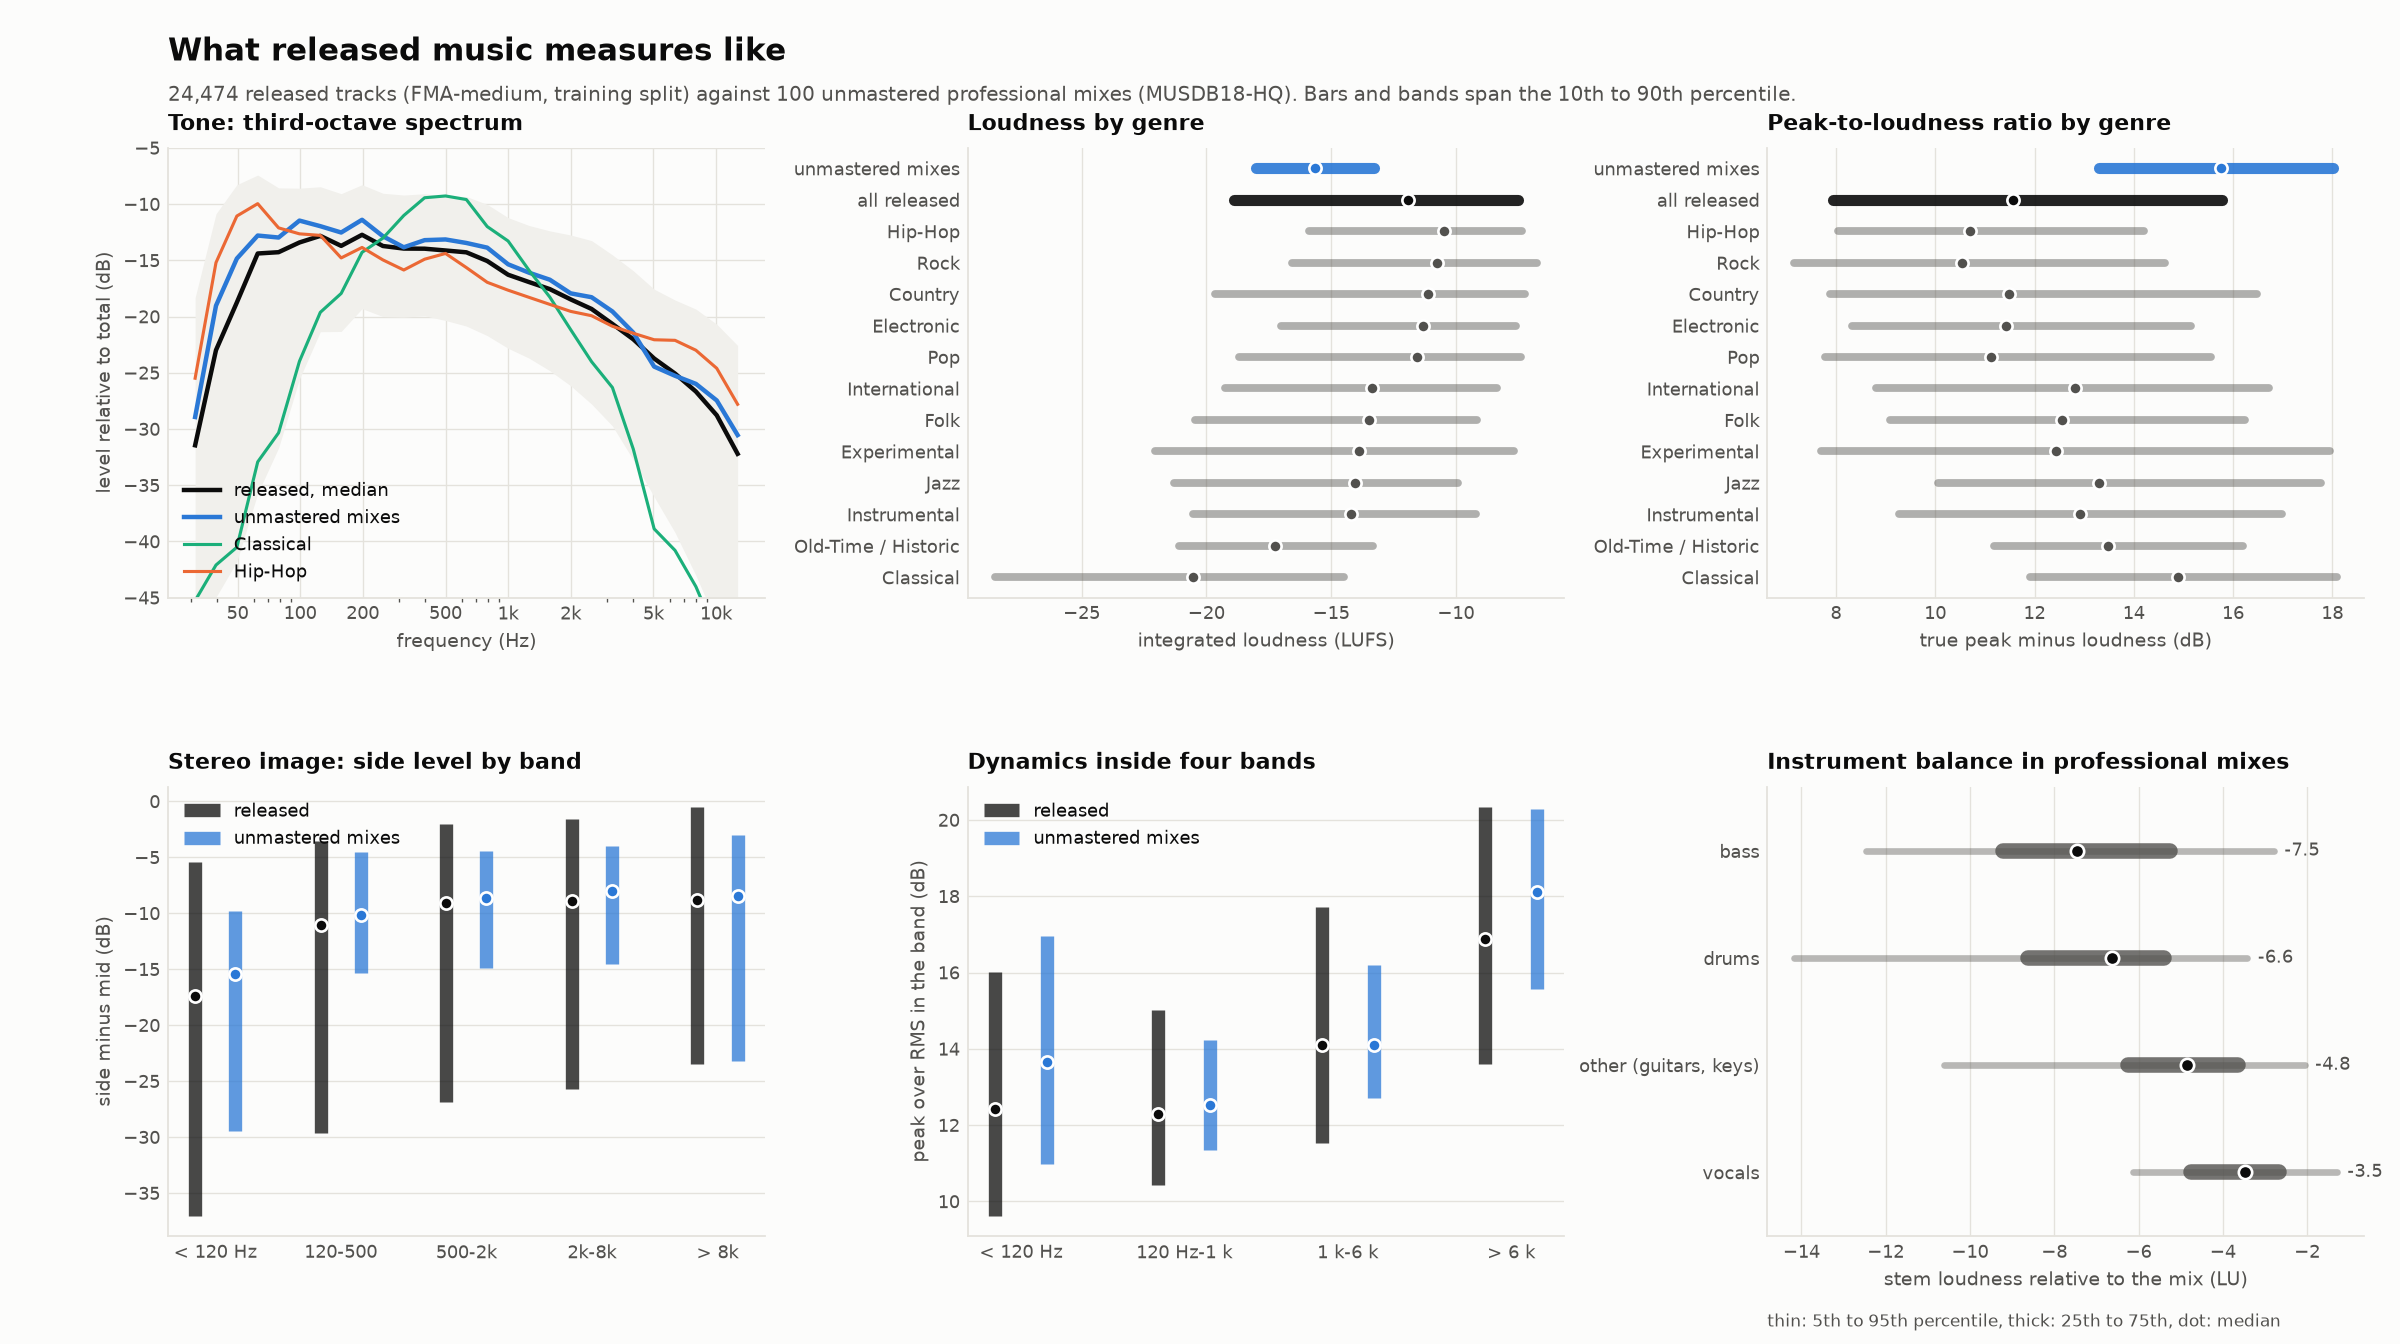
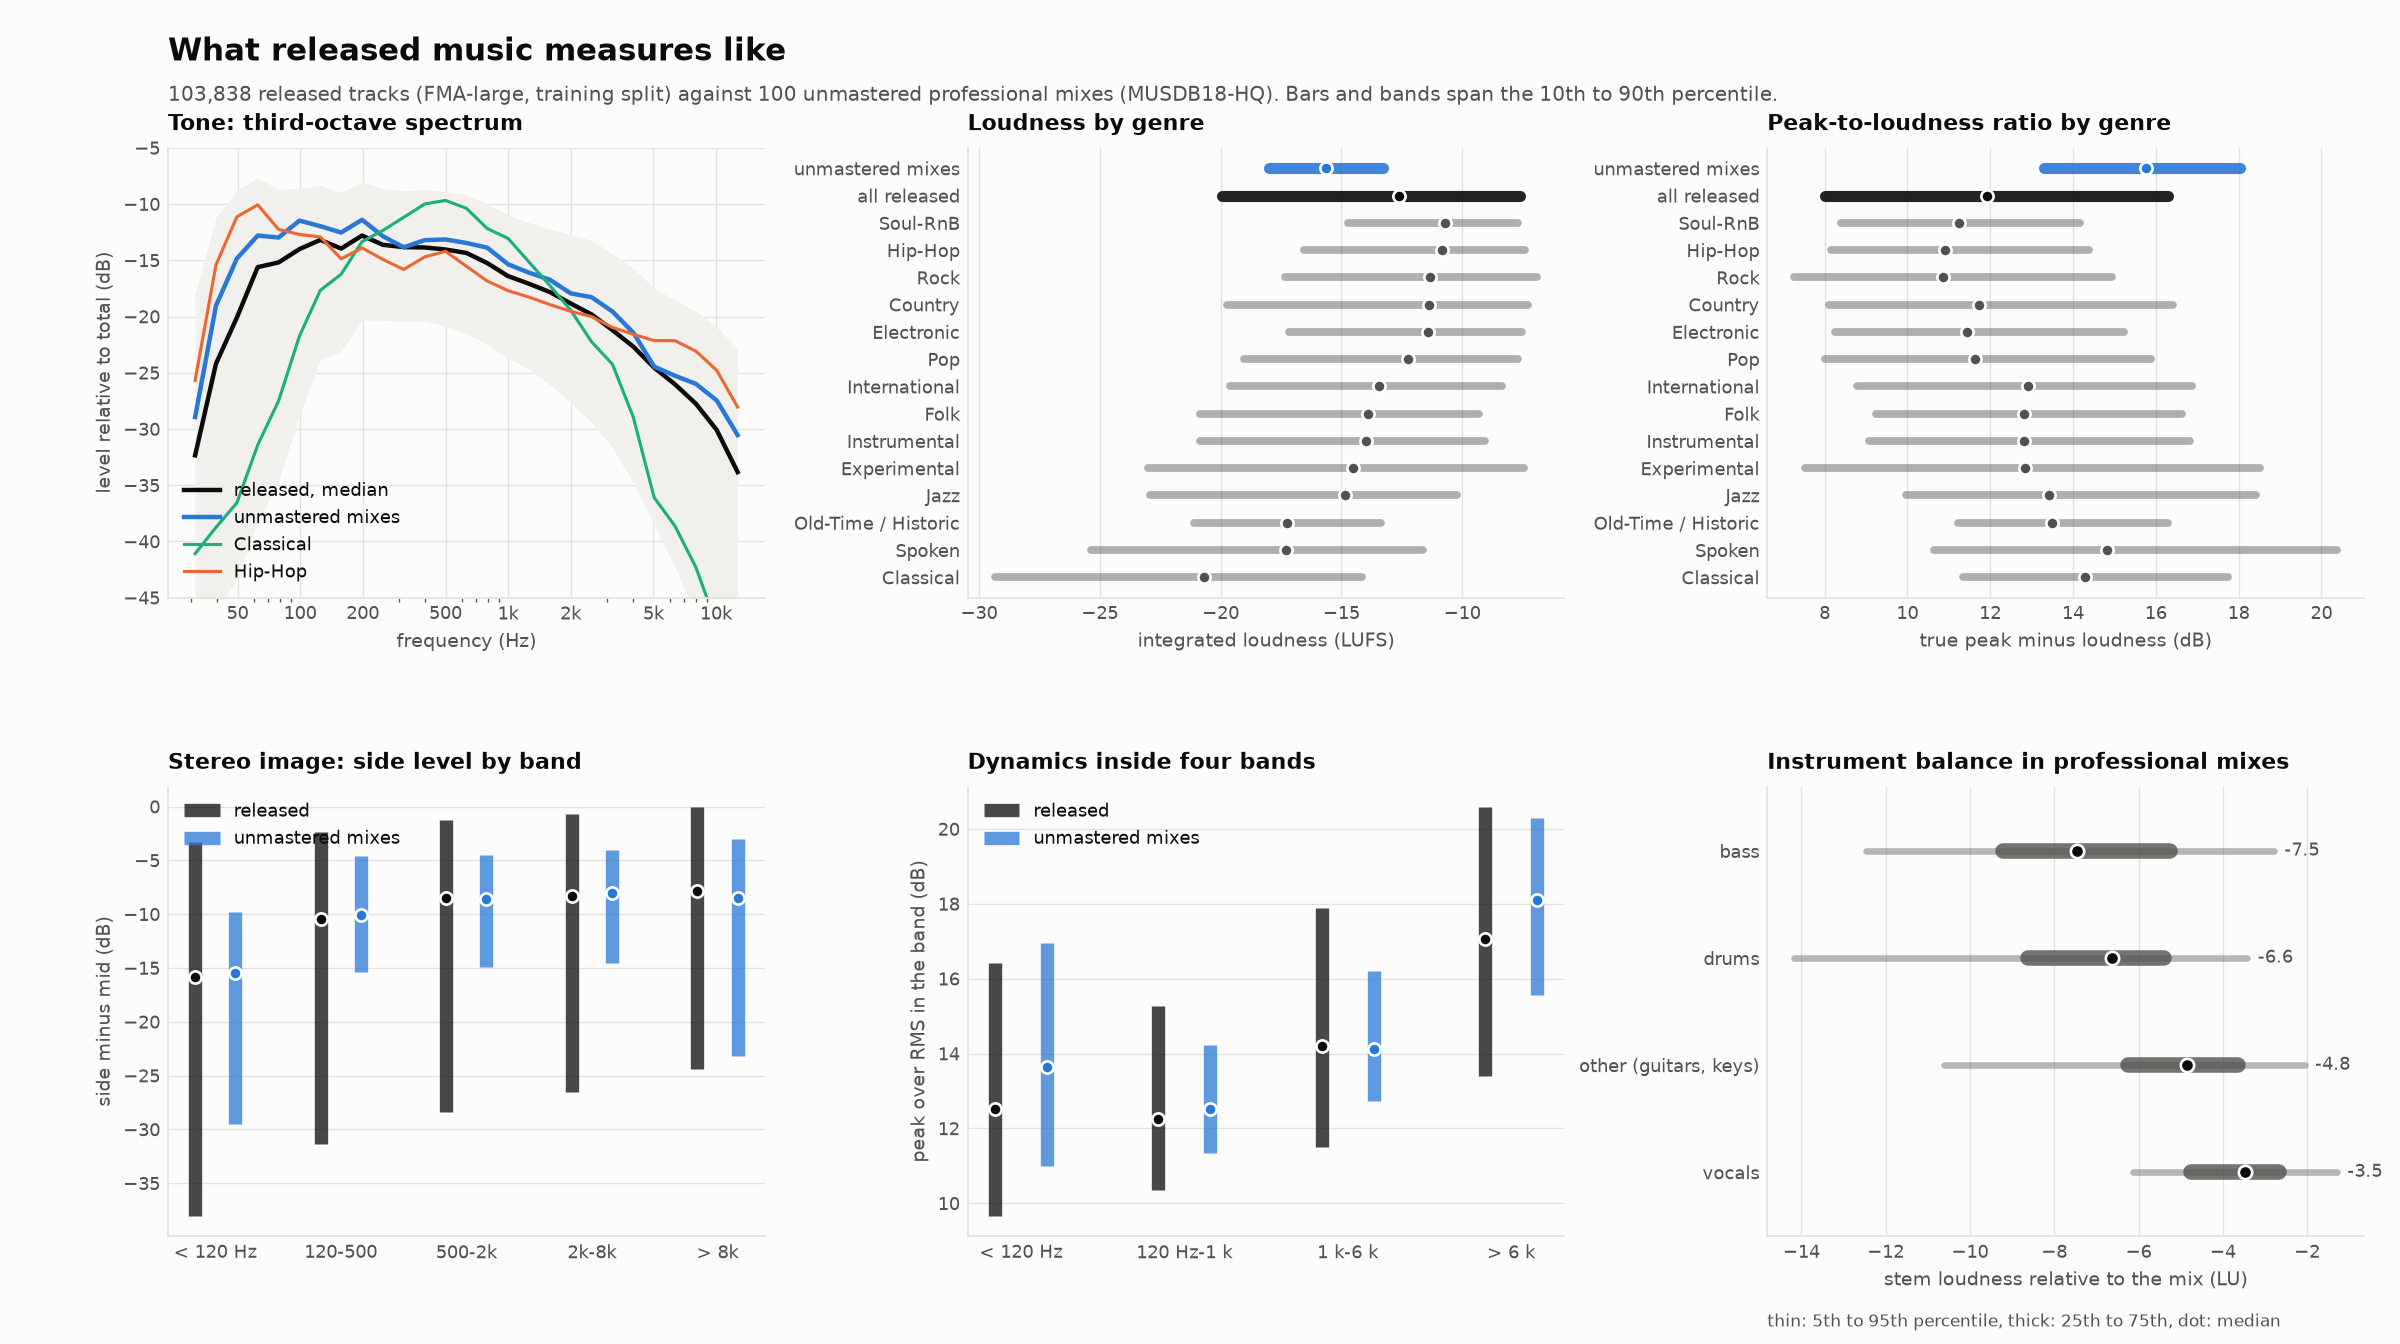
Mastering norms from the 106k-track FMA-large corpus (103,838 training-split tracks, 14 genres)

diff --git a/remaster/figures_mastering.py b/remaster/figures_mastering.py
@@ -42,7 +42,7 @@ def fig_corpus():
     fig, axs = plt.subplots(2, 3, figsize=(15, 8.4), dpi=160)
     fig.subplots_adjust(left=0.07, right=0.985, top=0.89, bottom=0.08, wspace=0.34, hspace=0.42)
     fig.text(0.07, 0.955, "What released music measures like", fontsize=14, fontweight="bold")
-    fig.text(0.07, 0.925, f"{G['all']['n']:,} released tracks (FMA-medium, training split) against {n['unmastered_mix']['n']} unmastered professional mixes (MUSDB18-HQ). "
+    fig.text(0.07, 0.925, f"{G['all']['n']:,} released tracks (FMA-large, training split) against {n['unmastered_mix']['n']} unmastered professional mixes (MUSDB18-HQ). "
              "Bars and bands span the 10th to 90th percentile.", fontsize=9, color=INK2)
 
     ax = axs[0, 0]

diff --git a/docs/experiments.md b/docs/experiments.md
@@ -516,7 +516,10 @@ stems. Norms use training-split tracks only (`remaster/mastering_norms.json`). F
 | Classical | 612 | -20.6 [-28.5, -14.5] | 14.9 [11.9, 18.0] | -7.3 [-11.6, -4.7] | -4.1 [-15.6, -0.5] |
 | unmastered professional mixes (MUSDB18-HQ) | 150 | -15.8 [-17.8, -13.6] | 15.8 [13.7, 17.9] | -5.1 [-6.2, -4.4] | -10.0 [-16.1, -6.2] |
 
-Median [10th, 90th percentile]. Two readings matter for the design. First, unmastered professional mixes have
+Median [10th, 90th percentile]. The same analysis on the 106,574-track FMA-large corpus (103,838 training-split
+tracks, 14 genres with at least 150 labelled tracks) gives all released -12.6 LUFS [-20.0, -7.6], peak-to-loudness
+11.9 dB [8.0, 16.3], slope -5.3 dB/octave [-8.1, -3.4], and the norms shipped in `mastering_norms.json` are built
+from it. Two readings matter for the design. First, unmastered professional mixes have
 the same tone and stereo image as released music (slope -5.1 against -5.1 dB/octave) and differ in dynamics:
 4 dB more peak-to-loudness ratio. Mastering a good mix is mostly a dynamics and loudness job. Second, the spread
 inside released music is wide (tone varies by 6 dB per band between tracks), while professional mixes are tight

diff --git a/README.md b/README.md
@@ -105,9 +105,9 @@ platform specs, measured studies), and the prior work in
 
 ![Loudness, dynamics, tone, stereo image and instrument balance of released music by genre, against unmastered mixes](docs/figures/mastering_corpus.png)
 
-**What released music measures like (E24).** 24,474 released tracks with genre labels and 150 unmastered
+**What released music measures like (E24).** 103,838 released tracks (FMA-large, 14 genres) and 150 unmastered
 professional mixes, 60 features each. Unmastered professional mixes have the same tone and stereo image as
-released music (spectral slope -5.1 dB/octave in both) and 4 dB more peak-to-loudness ratio. Mastering a good mix
+released music (spectral slope -5.1 against -5.3 dB/octave) and 4 dB more peak-to-loudness ratio. Mastering a good mix
 is mostly a dynamics and loudness job. Vocals sit 3.5 LU under the mix in the professional mixes, close to the
 published -2.7 LU.
 

diff --git a/docs/design.md b/docs/design.md
@@ -52,8 +52,8 @@ of leading context so tails from earlier audio land inside the training crop.
 
 Mastering is the part where a network is least justified, and the measurements say why.
 
-**A good mix already has the right tone.** Unmastered professional mixes (MUSDB18-HQ) and 24,474 released
-tracks have the same spectral slope (-5.1 dB/octave) and stereo image, and differ by 4 dB of peak-to-loudness
+**A good mix already has the right tone.** Unmastered professional mixes (MUSDB18-HQ) and 103,838 released
+tracks have nearly the same spectral slope (-5.1 against -5.3 dB/octave) and stereo image, and differ by 4 dB of peak-to-loudness
 ratio (E24). What mastering adds to a good mix is mostly dynamics control and loudness, which have exact DSP
 formulations and published delivery specs.
 
